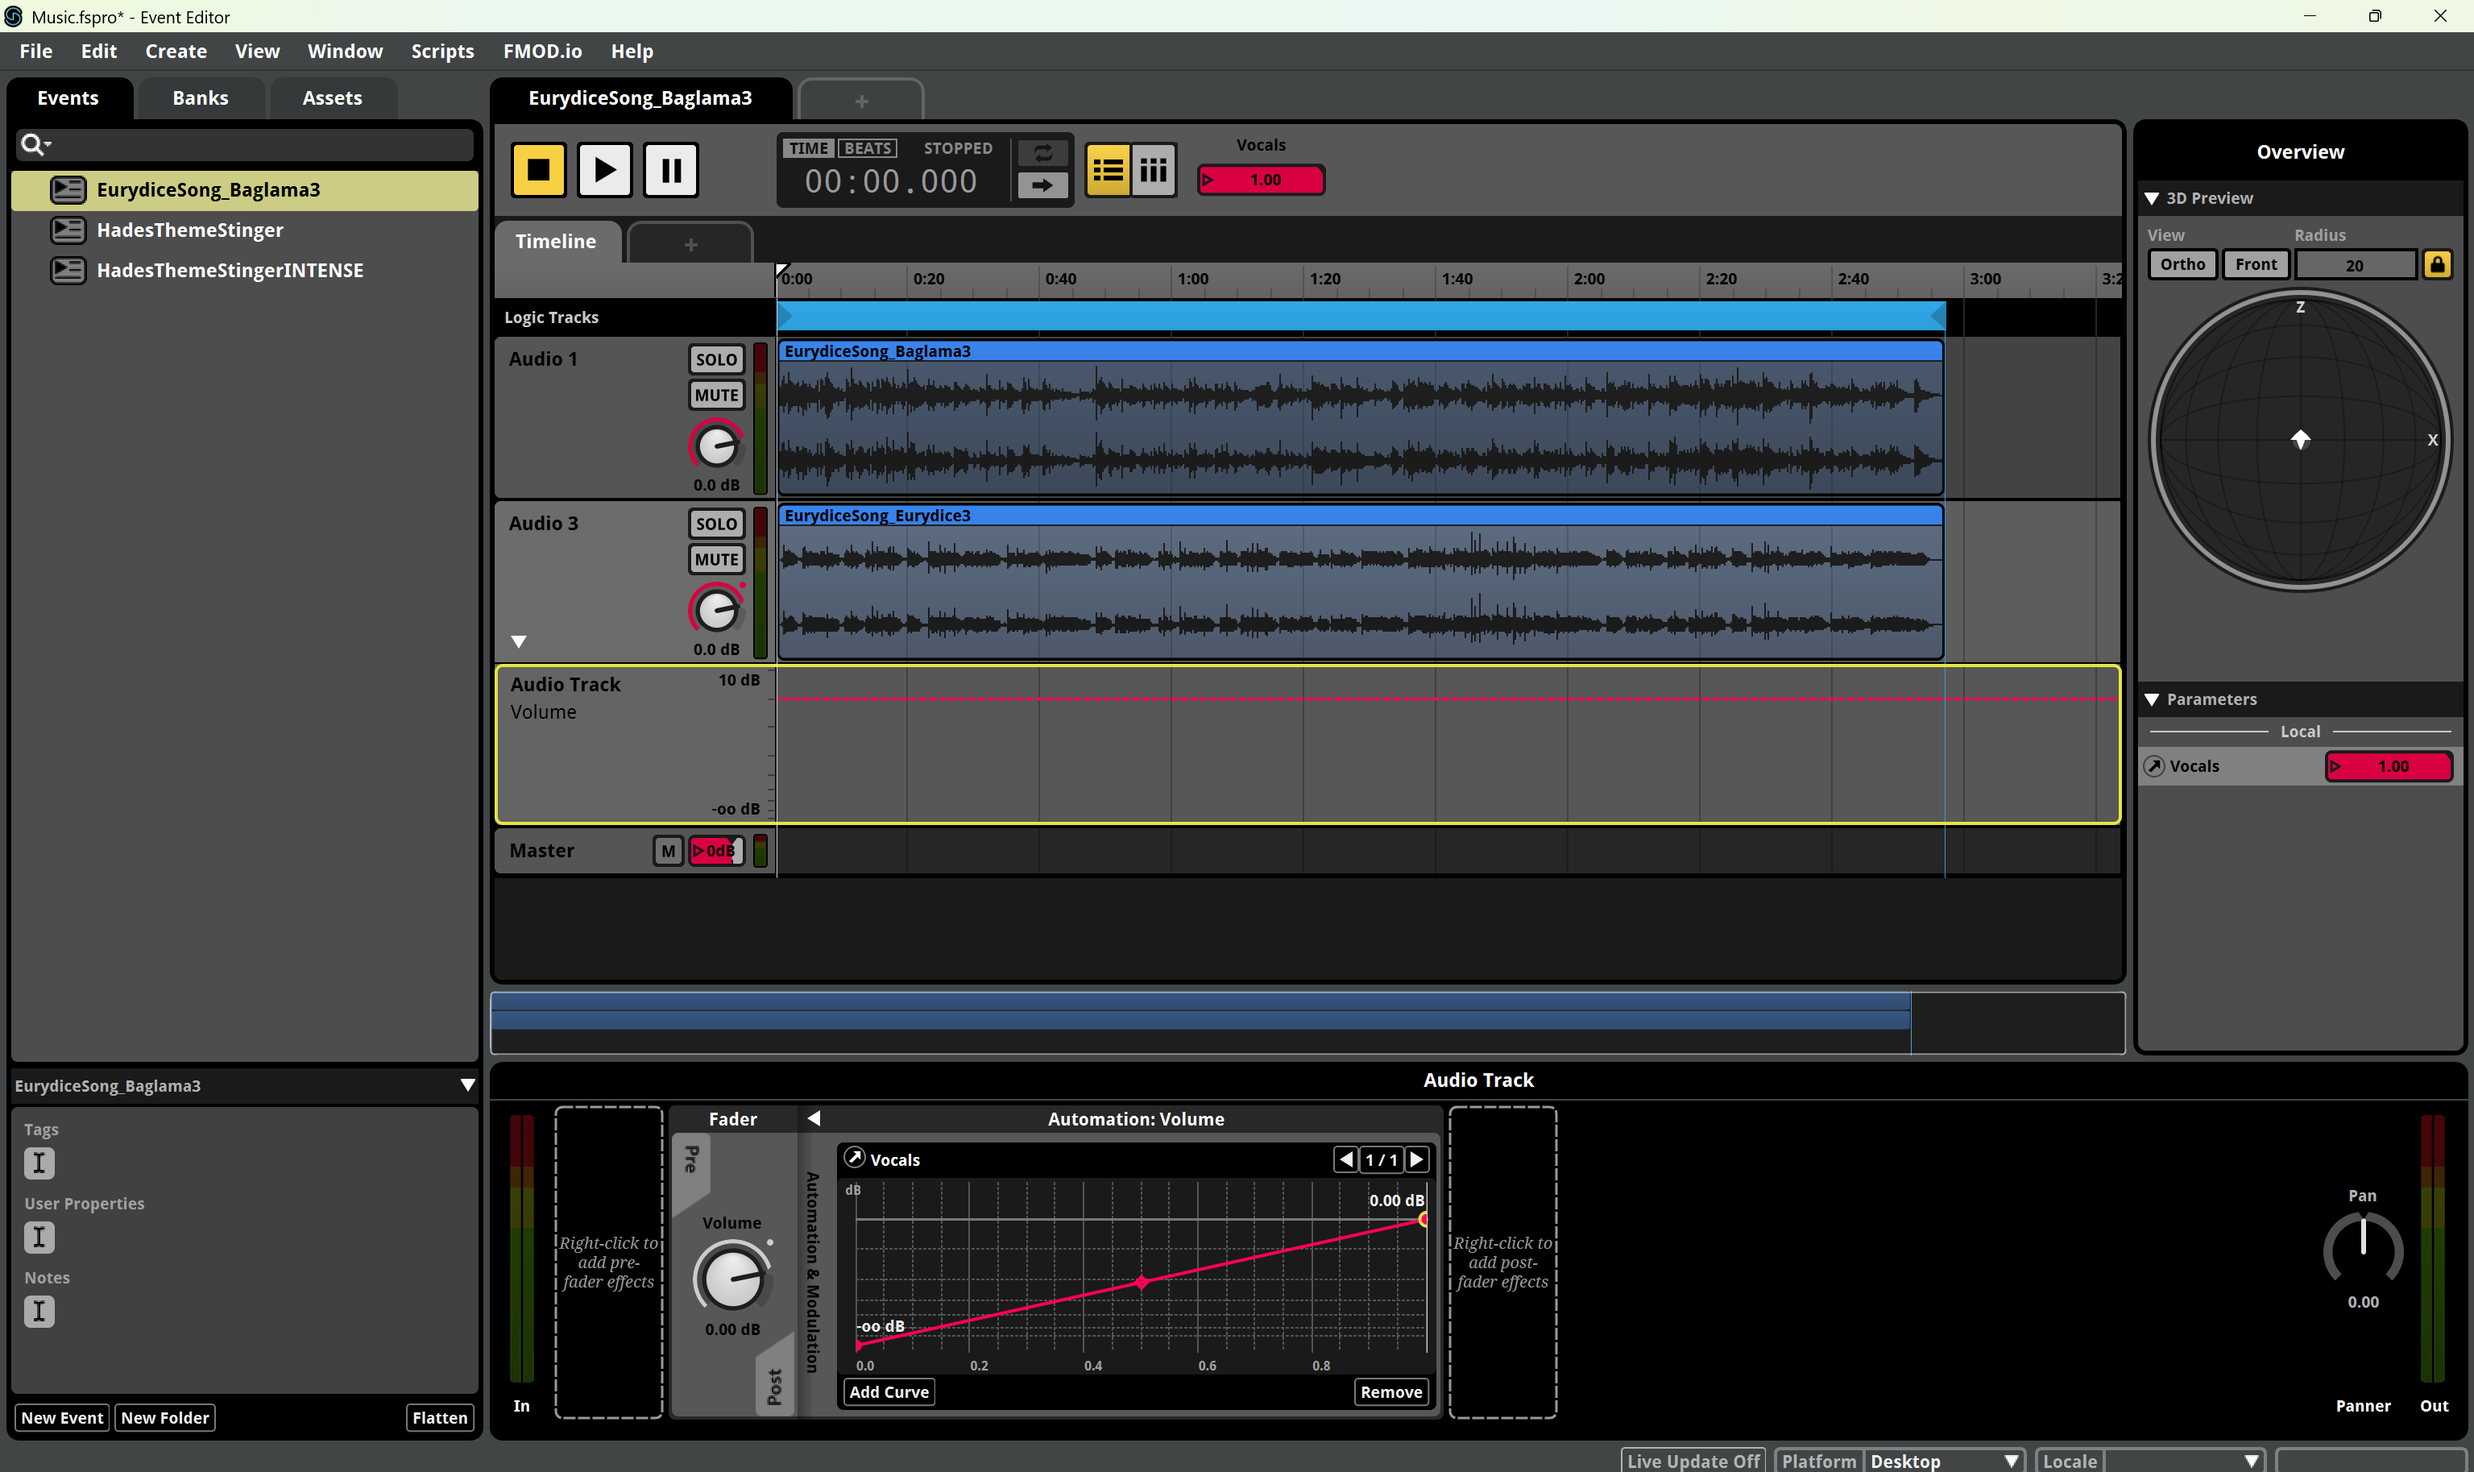
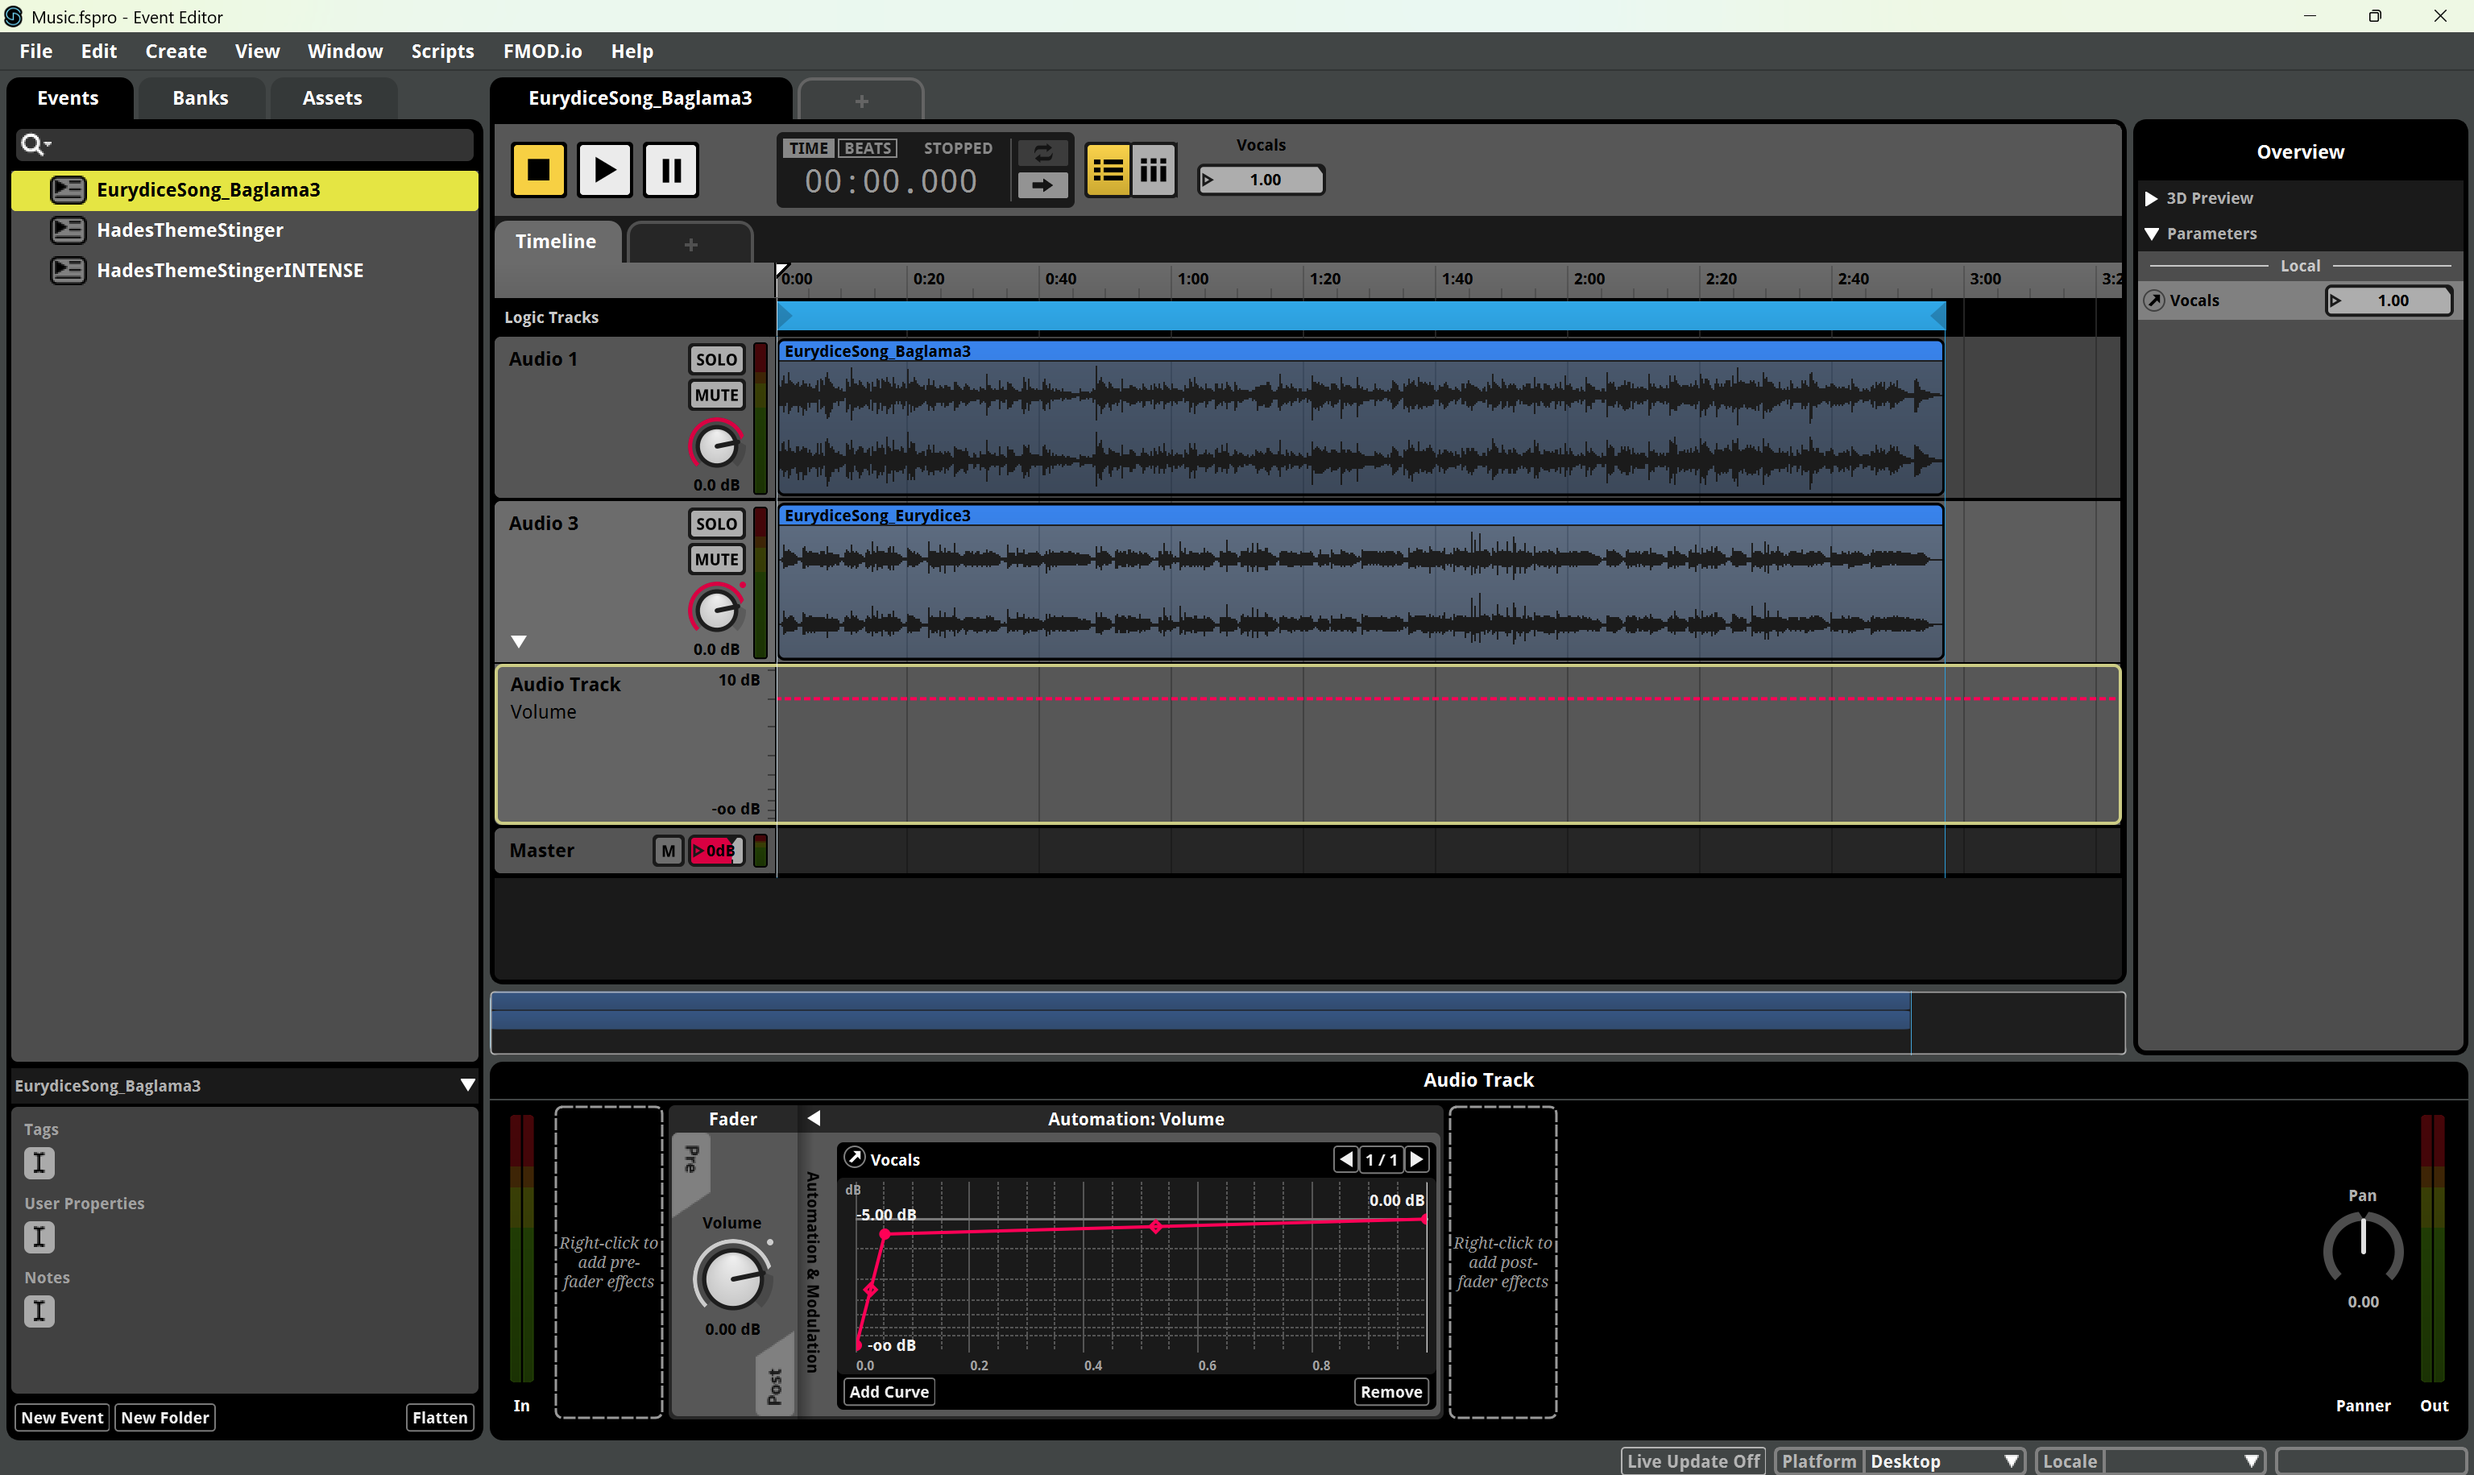
Updated curve with continuous parameter values

diff --git a/docs/creating-mods/audio/adding-multitrack-music.md b/docs/creating-mods/audio/adding-multitrack-music.md
@@ -58,13 +58,13 @@ For each track/stem, you'll need to set up an automation to control when it shou
   - Drag the left point to the very left bottom corner, so that the volume is at `-infinity` decibels when the parameter is at `0`.
 	- Drag the right point to the top right, so that the volume is at `0` decibels when the parameter is at `1`.
 	  - If you want to boost the audio at a value of `1`, you can change the curve to be above the `0` decibel line, but this is not recommended.
+	- Create a third point and right-click -> `Edit...` to set it's position to 0.05, and it's value to something between `-10` and `-1` decibels, to allow you to fade in the stem with floating point values between 0 and 1.
+	  - You don't have to add this third point if you will only ever set the stem to `0` or `1`, but if you do not set it, any values below 0.8 will be as good as muted. 
 
 That's it - follow the generic guide to export and play your music event in the game.
 Follow the [Turning tracks on and off in the code](#turning-tracks-on-and-off-in-the-code) section below to learn how to control the stems from within your mod.
 
 ### Setting up a new automation parameter
-
-![Adding a new parameter in FMOD](./img/fmod_add_parameter.png)
 
 For most use cases, configure your new parameter as follows:
 
